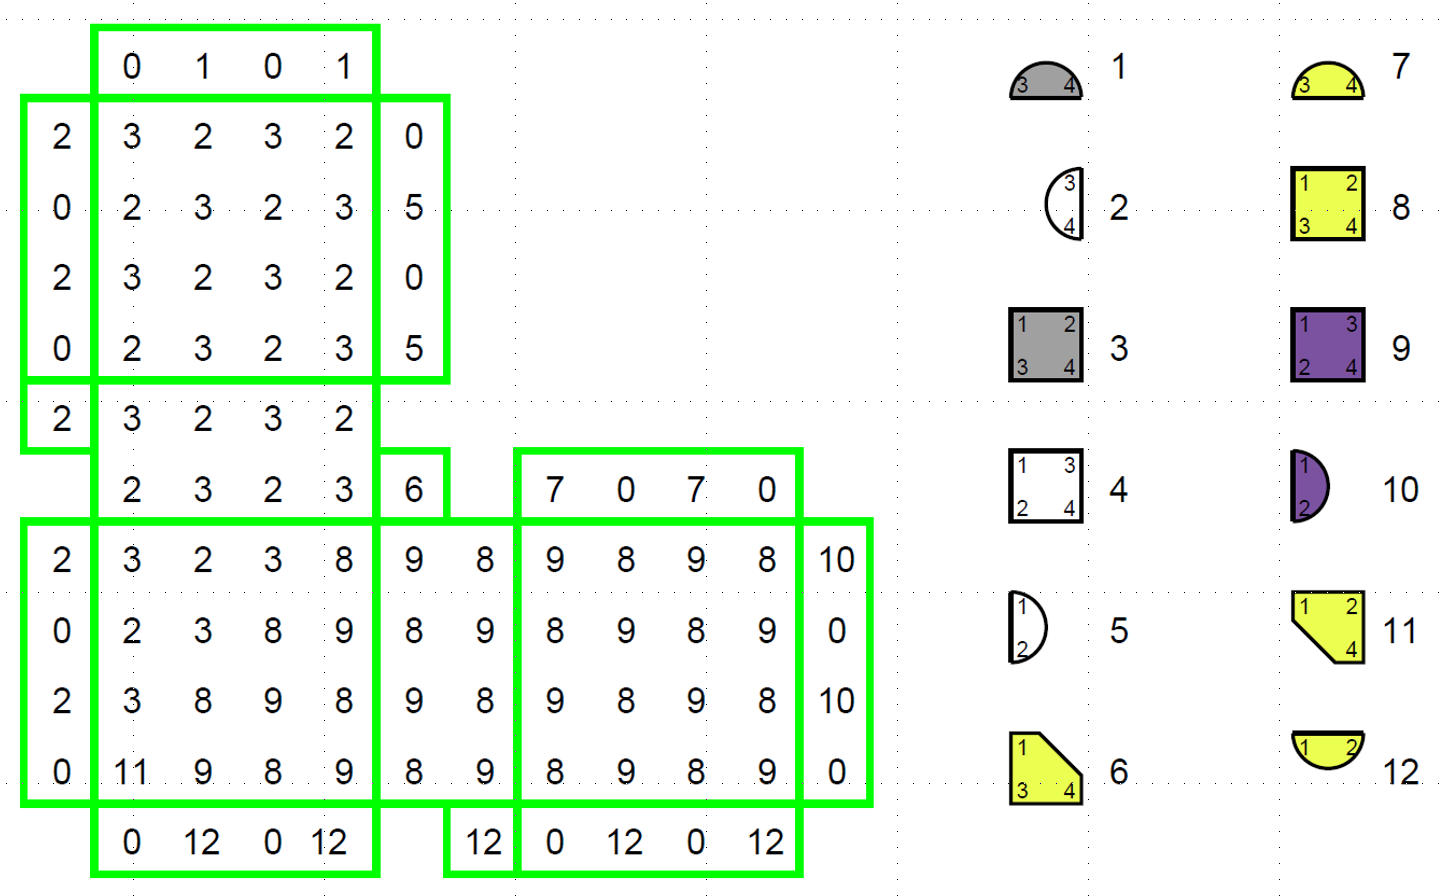
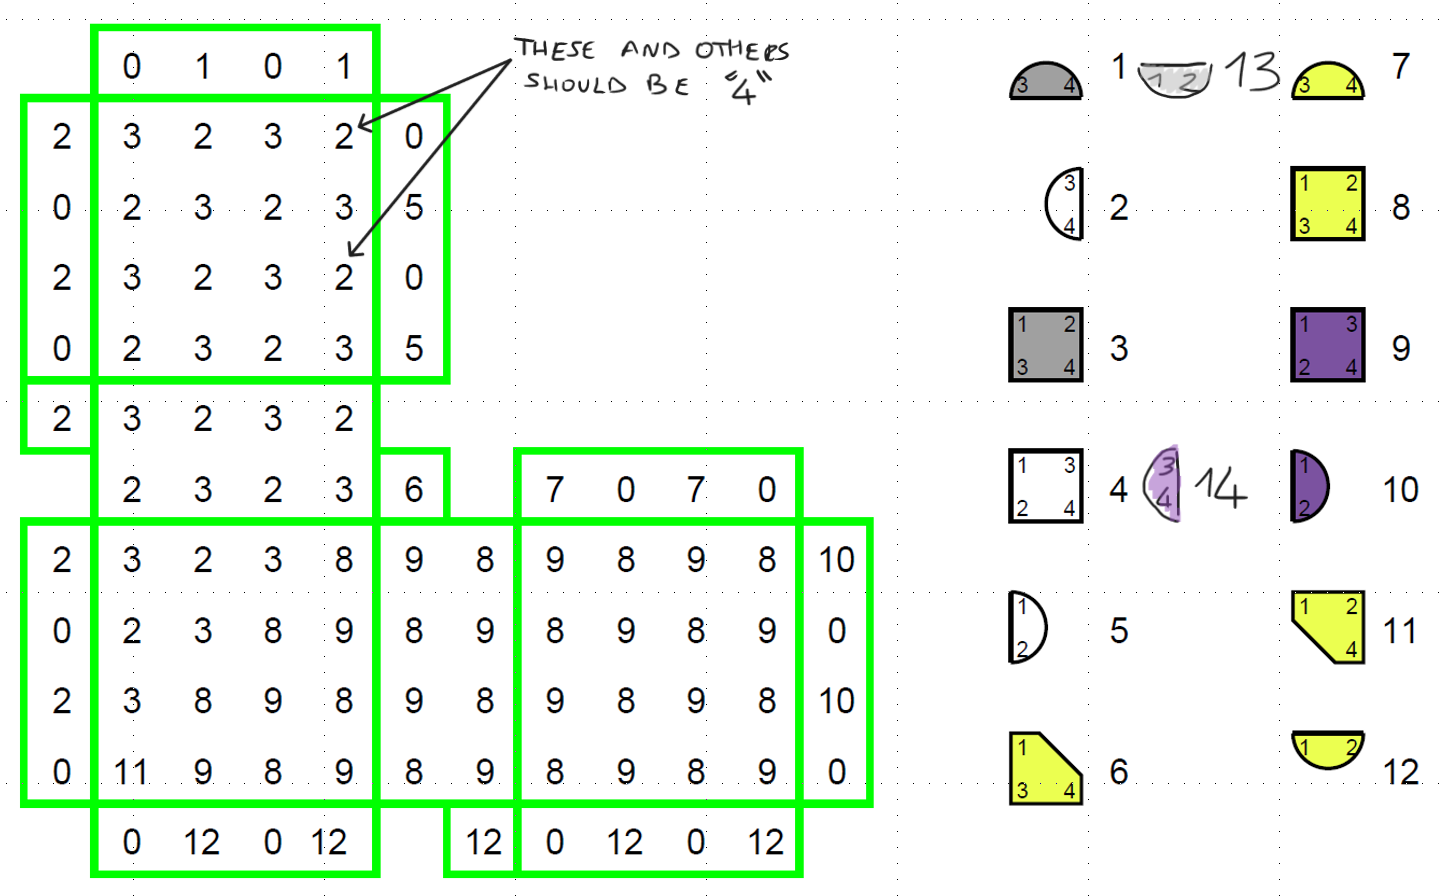
Correct typo in example and add missing plaquettes

diff --git a/proj_move-logical-qubit/utils.py b/proj_move-logical-qubit/utils.py
@@ -41,7 +41,7 @@ def move_L_shape(distance: int, v_shift: int, h_shift: int, resize_to_distance: 
             if (v+h)%2==0:
                 arrang[v][h] = 3
             else:
-                arrang[v][h] = 2
+                arrang[v][h] = 4
     # Final position of logical qubit and horizontal shift.
     for v in range(v_shift+1, distance + v_shift):
         for h in range(1, distance + h_shift):
@@ -62,19 +62,23 @@ def move_L_shape(distance: int, v_shift: int, h_shift: int, resize_to_distance: 
             # Left boundary
             if h+1 < h_dim and arrang[v][h+1]==3:
                 arrang[v][h] = 2
+            elif h+1 < h_dim and arrang[v][h+1]==8:
+                arrang[v][h] = 14
             # Right boundary
             if h > 0 and arrang[v][h-1]==3:
                 arrang[v][h] = 5
             elif h > 0 and arrang[v][h-1]==8:
                 arrang[v][h] = 10
             # Top boundary
-            if v+1 < v_dim and arrang[v+1][h]==2:
+            if v+1 < v_dim and arrang[v+1][h]==4:
                 arrang[v][h] = 1
             elif v+1 < v_dim and arrang[v+1][h]==9:
                 arrang[v][h] = 7
             # Bottom boundary
             if v > 0 and arrang[v-1][h]==9:
                 arrang[v][h] = 12
+            elif v > 0 and arrang[v-1][h]==4:
+                arrang[v][h] = 13
     return arrang
 
 ####################################################
